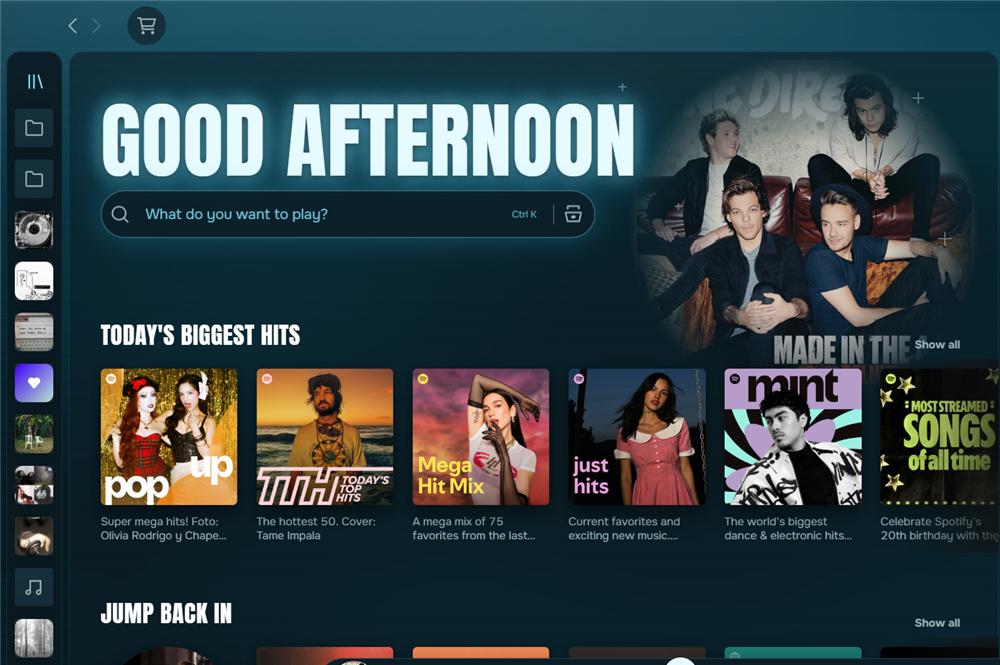
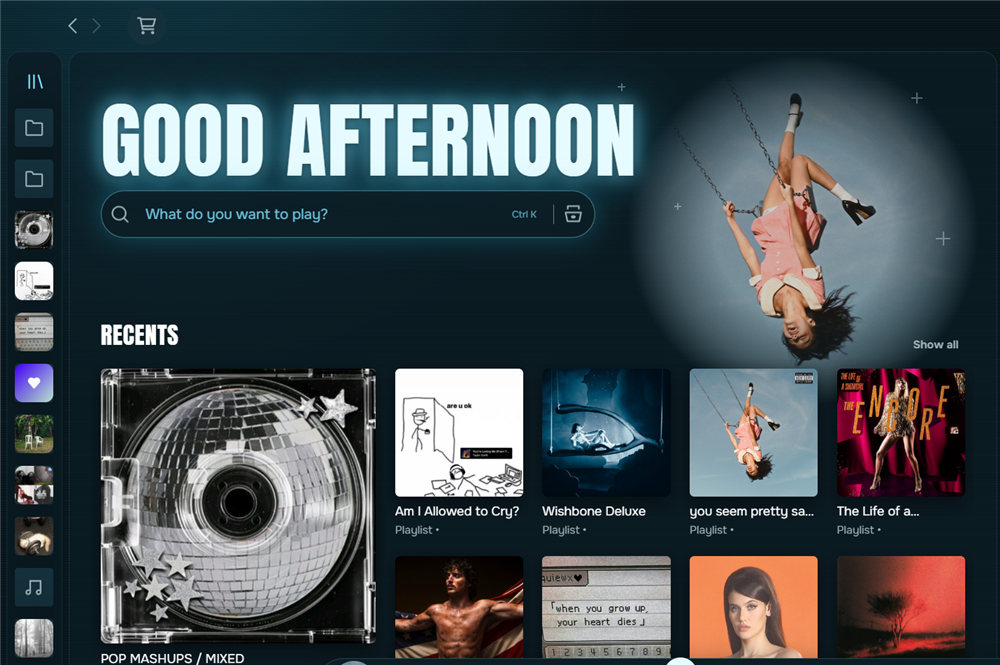
Keep the background in the palette color instead of following the cover

diff --git a/theme.js b/theme.js
@@ -11,15 +11,9 @@
   fonts.onload = () => (fonts.media = "all");
   document.head.append(fonts);
 
-  // Capas del fondo. La luz aparece desde el primer instante, sin esperar al reproductor
+  // Capas del fondo: siempre el color de la paleta, sin cambiar con la canción
   const backdrop = document.createElement("div");
   backdrop.id = "vitral-backdrop";
-  const layers = [document.createElement("canvas"), document.createElement("canvas")];
-  layers.forEach((canvas) => {
-    canvas.width = canvas.height = 96;
-    canvas.className = "vt-cover";
-    backdrop.append(canvas);
-  });
   ["vt-aurora vt-aurora-a", "vt-scanlines"].forEach((name) => {
     const layer = document.createElement("div");
     layer.className = name;
@@ -154,62 +148,6 @@
     };
   })();
 
-  // Pinta la carátula ya desenfocada y teñida en un lienzo mínimo. Se calcula una vez por
-  // canción y la tarjeta gráfica solo la estira: nada de desenfoque en vivo
-  function paint(canvas, img) {
-    const ctx = canvas.getContext("2d", { willReadFrequently: true });
-    ctx.globalCompositeOperation = "source-over";
-    ctx.filter = "none";
-    ctx.drawImage(img, 0, 0, 96, 96);
-    const { data } = ctx.getImageData(0, 0, 96, 96);
-
-    let light = 0;
-    for (let i = 0; i < data.length; i += 16) {
-      light += (0.2126 * data[i] + 0.7152 * data[i + 1] + 0.0722 * data[i + 2]) / 255;
-    }
-
-    // Exposición pareja: las carátulas blancas no deslumbran y las negras no desaparecen
-    const exposure = Math.min(Math.max(0.2 / Math.max(light / (data.length / 16), 0.05), 0.3), 1.8);
-    ctx.filter = `blur(9px) grayscale(1) contrast(1.25) brightness(${exposure.toFixed(2)})`;
-    ctx.drawImage(img, -14, -14, 124, 124);
-    ctx.filter = "none";
-
-    ctx.globalCompositeOperation = "color";
-    const tint = ctx.createLinearGradient(0, 0, 96, 96);
-    const palette = getComputedStyle(root);
-    tint.addColorStop(0, palette.getPropertyValue("--vt-surface").trim() || "#1e2a4a");
-    tint.addColorStop(1, palette.getPropertyValue("--vt-primary").trim() || "#3b6fd4");
-    ctx.fillStyle = tint;
-    ctx.fillRect(0, 0, 96, 96);
-  }
-
-  let front = 0;
-  let current = null;
-
-  async function showCover(url) {
-    if (!url || url === current) return;
-    current = url;
-    const img = new Image();
-    img.crossOrigin = "anonymous";
-    img.src = url;
-    try {
-      await img.decode();
-    } catch {
-      return;
-    }
-    if (url !== current) return;
-
-    const next = layers[1 - front];
-    try {
-      paint(next, img);
-    } catch {
-      return; // Imagen sin permiso de lectura: se queda la luz anterior
-    }
-    next.classList.add("is-visible");
-    layers[front].classList.remove("is-visible");
-    front = 1 - front;
-  }
-
   // Las paletas claras usan menos sombra: el fondo, las fotos y el brillo se suavizan desde el CSS
   const syncLightPalette = () => {
     const main = getComputedStyle(root).getPropertyValue("--vt-main").trim();
@@ -217,17 +155,6 @@
   };
   syncLightPalette();
   setInterval(syncLightPalette, 2000);
-
-  // Al elegir otra paleta en Marketplace, la luz de fondo se vuelve a teñir con sus colores
-  const scheme = document.querySelector("style.marketplaceScheme");
-  if (scheme) {
-    new MutationObserver(() => {
-      const url = current;
-      current = null;
-      showCover(url);
-      syncHero();
-    }).observe(scheme, { childList: true, characterData: true, subtree: true });
-  }
 
   function imageUrl(image) {
     return image?.startsWith("spotify:image:") ? `https://i.scdn.co/image/${image.split(":").pop()}` : image;
@@ -243,12 +170,9 @@
   hero.className = "vt-hero";
   const heroGhost = document.createElement("span");
   heroGhost.className = "vt-hero-ghost";
-  const heroFill = document.createElement("canvas");
-  heroFill.className = "vt-hero-fill";
-  heroFill.width = heroFill.height = 64;
   const heroImg = document.createElement("canvas");
   heroImg.className = "vt-hero-img";
-  hero.append(heroFill, heroGhost, heroImg);
+  hero.append(heroGhost, heroImg);
   for (let i = 0; i < 4; i++) hero.append(document.createElement("i"));
 
   let heroSource = null;
@@ -257,22 +181,6 @@
   // Foto, desenfoque y desvanecido quedan pintados una vez por página en una imagen fija:
   // al hacer scroll el navegador solo la mueve, sin filtros ni máscaras en vivo
   function paintHero(img, wide) {
-    const fill = heroFill.getContext("2d");
-    fill.globalCompositeOperation = "source-over";
-    fill.clearRect(0, 0, 64, 64);
-    // En la paleta clara la foto no se oscurece: sobre fondo claro quedaría como una mancha
-    const main = getComputedStyle(root).getPropertyValue("--vt-main").trim();
-    const isLight = parseInt(main.slice(1, 3), 16) > 128;
-    fill.filter = `blur(4px) brightness(${isLight ? 1 : 0.5}) saturate(1.15)`;
-    fill.drawImage(img, -8, -8, 80, 80);
-    fill.filter = "none";
-    fill.globalCompositeOperation = "destination-in";
-    const fillFade = fill.createLinearGradient(0, 0, 0, 64);
-    fillFade.addColorStop(0.25, "#000");
-    fillFade.addColorStop(0.92, "transparent");
-    fill.fillStyle = fillFade;
-    fill.fillRect(0, 0, 64, 64);
-
     const side = Math.min(img.naturalWidth, img.naturalHeight);
     const width = wide ? img.naturalWidth : side;
     const height = wide ? img.naturalHeight : side;
@@ -597,15 +505,9 @@
       root.classList.add("vt-has-face");
       setTimeout(face.startBlinking, 600);
     }
-    const syncCover = () => {
-      const metadata = Spicetify.Player.data?.item?.metadata;
-      showCover(imageUrl(metadata?.image_small_url ?? metadata?.image_url));
-    };
-
     Spicetify.Player.addEventListener("onplaypause", syncPlaying);
     Spicetify.Player.addEventListener("songchange", () => {
       syncPlaying();
-      syncCover();
       if (homeHero.isConnected) paintHomeCover();
       animate(".main-nowPlayingBar-left", [
         { opacity: 0, transform: "translateY(8px)" },
@@ -665,7 +567,6 @@
     });
 
     syncPlaying();
-    syncCover();
     syncHero();
   })();
 })();

diff --git a/user.css b/user.css
@@ -51,23 +51,6 @@ html {
   contain: strict;
 }
 
-.vt-cover {
-  position: absolute;
-  inset: -10%;
-  width: 120%;
-  height: 120%;
-  opacity: 0;
-  /* La capa que no se ve deja de contar para la tarjeta gráfica al terminar el fundido */
-  visibility: hidden;
-  transition: opacity 1.2s ease, visibility 0s linear 1.2s;
-}
-
-.vt-cover.is-visible {
-  opacity: 0.6;
-  visibility: visible;
-  transition: opacity 1.2s ease;
-}
-
 /* Se pinta a la mitad de tamaño y se amplía: al ser un degradado difuso se ve igual y ocupa un cuarto */
 .vt-aurora {
   position: absolute;
@@ -405,7 +388,6 @@ h2 {
   display: none !important;
 }
 
-.vt-hero-wide .vt-hero-fill,
 .vt-hero-wide .vt-hero-ghost {
   display: none;
 }
@@ -447,14 +429,6 @@ h2 {
   z-index: -1;
   overflow: hidden;
   pointer-events: none;
-}
-
-/* Detrás, la misma foto difuminada a propósito para llenar el ancho */
-.vt-hero-fill {
-  position: absolute;
-  inset: -60px;
-  width: calc(100% + 120px);
-  height: calc(100% + 120px);
 }
 
 /* Delante, la foto nítida a su tamaño real, sin estirarla: se desvanece como el avatar del portafolio */
@@ -1053,7 +1027,6 @@ h2 {
     animation: none;
   }
 
-  .vt-cover,
   #Desktop_LeftSidebar_Id .xyKGFDsvgoKiCZaisfQ1,
   .vt-face,
   .vt-face > span,
@@ -1128,14 +1101,6 @@ body .encore-over-media-set {
 /* Paletas claras: sin sombras que ensucien el fondo, las fotos ni los títulos */
 :root.vt-light {
   --vt-glow: 0 0 18px rgba(var(--vt-primary-rgb), 0.28);
-}
-
-.vt-light .vt-cover.is-visible {
-  opacity: 0.16;
-}
-
-.vt-light .vt-hero-fill {
-  opacity: 0.3;
 }
 
 .vt-light .main-entityHeader-headerText .encore-internal-color-text-subdued,

diff --git a/README.md b/README.md
@@ -1,6 +1,6 @@
 # Vitral
 
-A Spicetify theme for Spotify desktop in eight colors: Dark Blue, Pink, Purple, Red, Cyan, Lime, Black and White. The album art lights the window from behind glass, and the home page is rebuilt around a large greeting and search bar.
+A Spicetify theme for Spotify desktop in eight colors: Dark Blue, Pink, Purple, Red, Cyan, Lime, Black and White. The background stays in the color you pick, and the home page is rebuilt around a large greeting and search bar.
 
 *[Versión en español más abajo](#español)*
 
@@ -80,7 +80,7 @@ MIT. See [LICENSE](LICENSE).
 
 ## Español
 
-Tema de Spicetify para Spotify de escritorio en ocho colores: Dark Blue, Pink, Purple, Red, Cyan, Lime, Black y White; se elige en el desplegable de Marketplace. La carátula ilumina la ventana desde detrás del vidrio, y el inicio se rehace alrededor de un saludo grande y el buscador.
+Tema de Spicetify para Spotify de escritorio en ocho colores: Dark Blue, Pink, Purple, Red, Cyan, Lime, Black y White; se elige en el desplegable de Marketplace. El fondo se mantiene en el color que elijas, y el inicio se rehace alrededor de un saludo grande y el buscador.
 
 **Incluye:** inicio con saludo en tu idioma, mosaico de recientes, foto grande que se desvanece en playlists, álbumes y artistas, reproductor en píldora flotante, lista lateral compacta y ojos en el botón de play que siguen al cursor.
 
